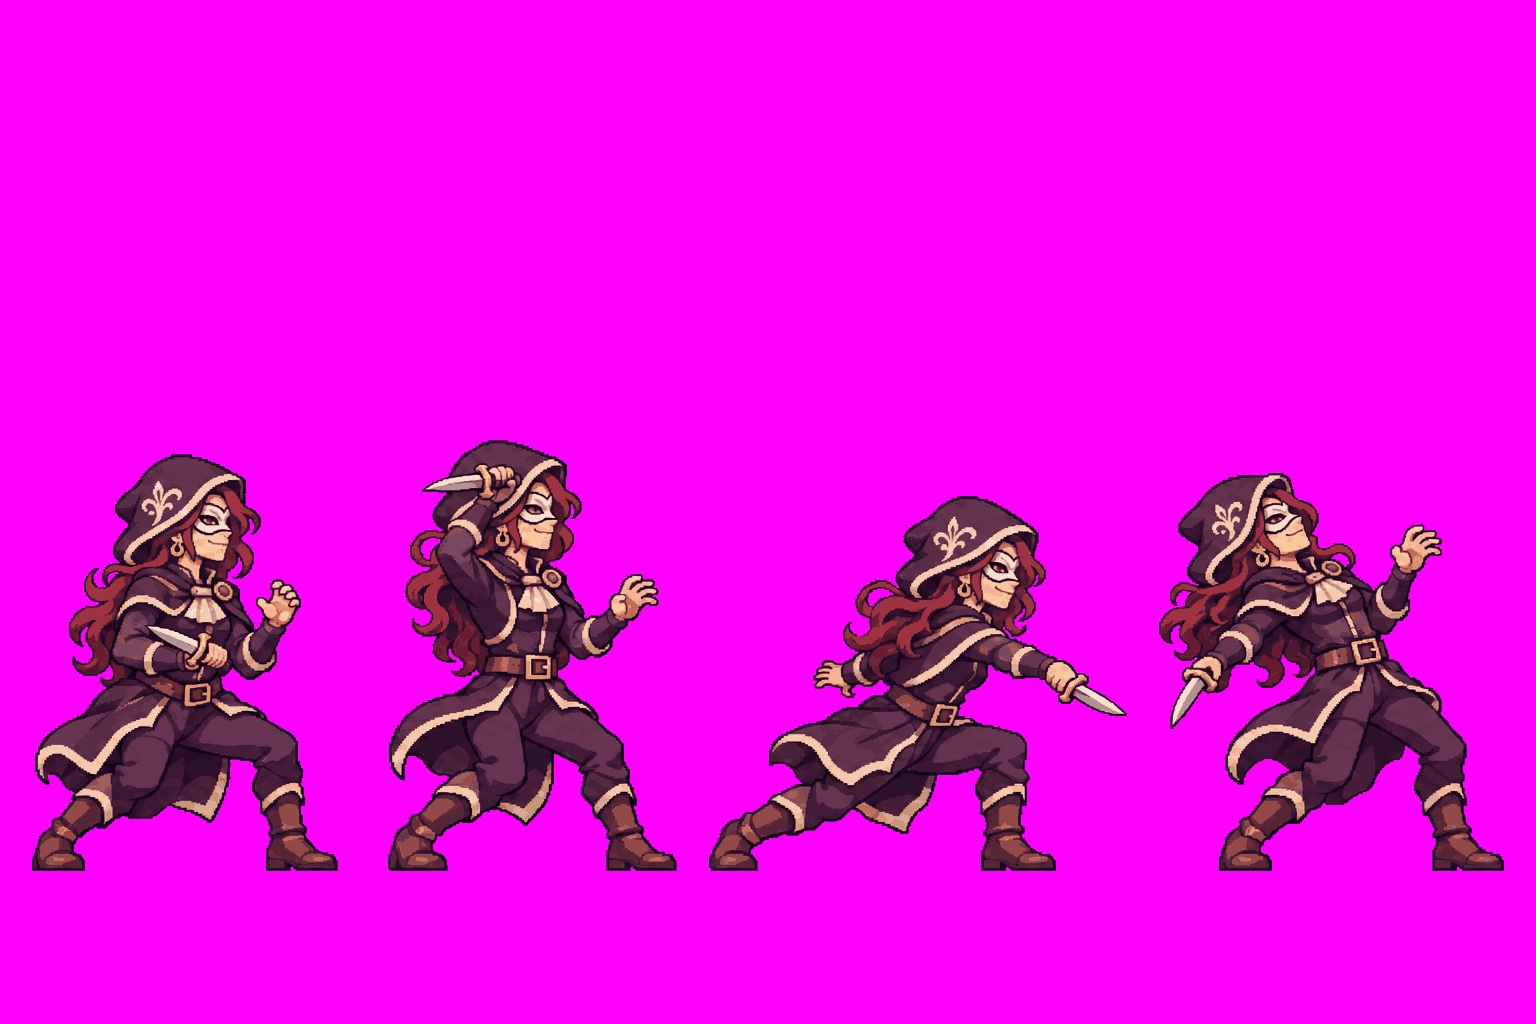
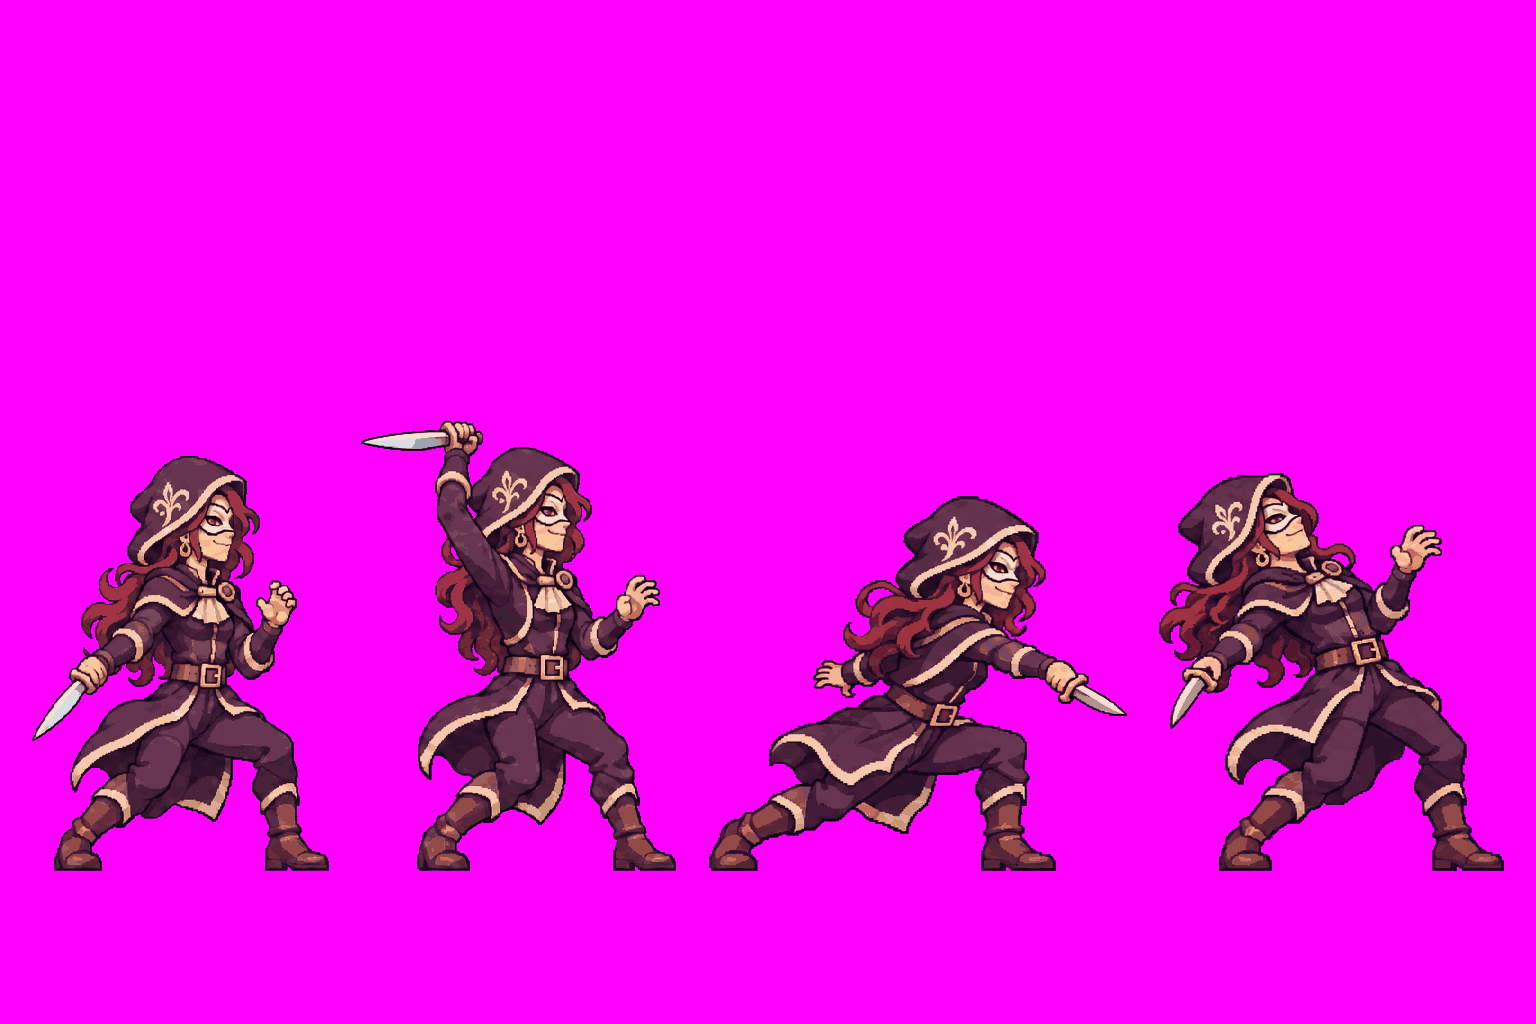
Make Lyra's dagger readable in idle and wind-up

Changed region(s): [[0.2188, 0.4062, 0.4375, 0.875], [0.0, 0.4375, 0.2188, 0.875]]

diff --git a/art/inbox/NOTES.md b/art/inbox/NOTES.md
@@ -175,3 +175,8 @@
 
 - `sheet_hero_lyra.png`: 승인된 초상화와 바렌 전투 시트를 기준으로 제작. 후드와 흰 반가면을 네 자세에 유지하고, 꺼낸 단검은 한 자루만 그렸다. 준비 시 단검 손이 머리 위에 있고, 타격에서는 팔과 단검을 전방으로 뻗는다. 가이드의 피격보다 단검을 든 팔이 더 아래로 뻗고 망토 폭이 넓다. 게임 크기에서 칼날 방향이 흐리면 타격 손목과 칼날 실루엣을 먼저 손보고 싶다.
 - 1536×1024, 1×4, 네 자세 최하단 y=870, 바깥 및 자세 사이 최소 여백 32px, 단색 `#FF00FF` 배경, 전경 39색, 키와 최소 RGB 거리 181.82 확인. 어두운 바탕 위 약 64px 배율의 로컬 미리보기로 자세를 대조했다. 게임 등록 및 인게임 확인은 하지 않았다.
+
+## 리라 — 다시 그림
+
+- `sheet_hero_lyra.png`: 수령 피드백에 맞춰 대기·준비 자세의 단검을 밝은 중성 강철색과 어두운 테두리로 다시 그렸다. 대기에서는 몸 옆 아래로, 준비에서는 두건 위뒤로 내어 날이 마젠타 배경 위로 드러나게 했다. 두 자세의 가로 폭을 여백에 맞춰 약 10% 줄였다. 타격·피격 픽셀은 이전 납품과 동일하다.
+- 1536×1024, 1×4, 최하단 y=870, 여백과 간격 각 32px 이상, 전경 41색, 마젠타 키와 최소 RGB 거리 181.82 확인. 약 64px 배율의 어두운 배경 미리보기에서 대기·준비 양쪽 모두 날이 구분된다. 게임 변환 검수와 등록은 Claude Code에서 할 일로 남겨 두었다.
